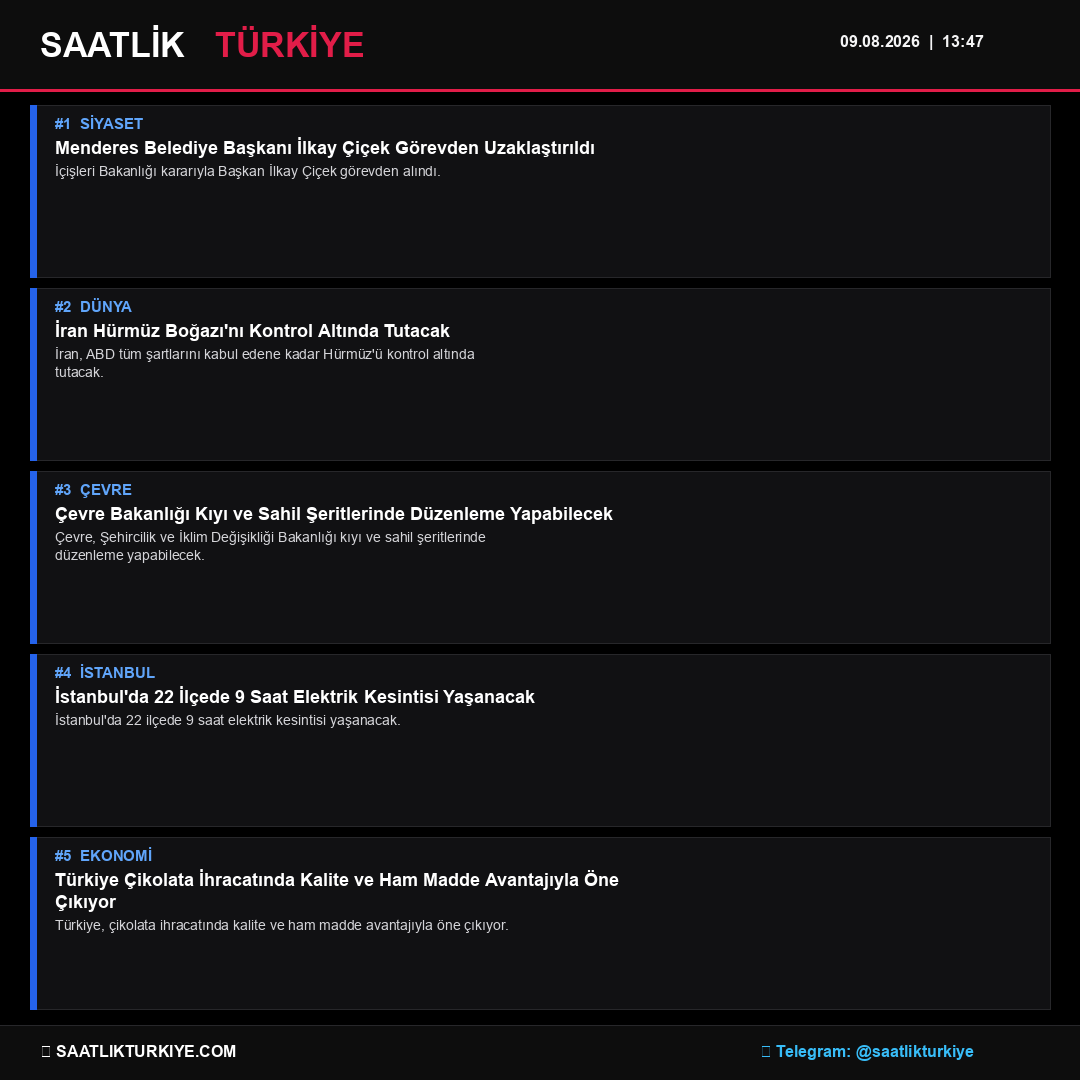
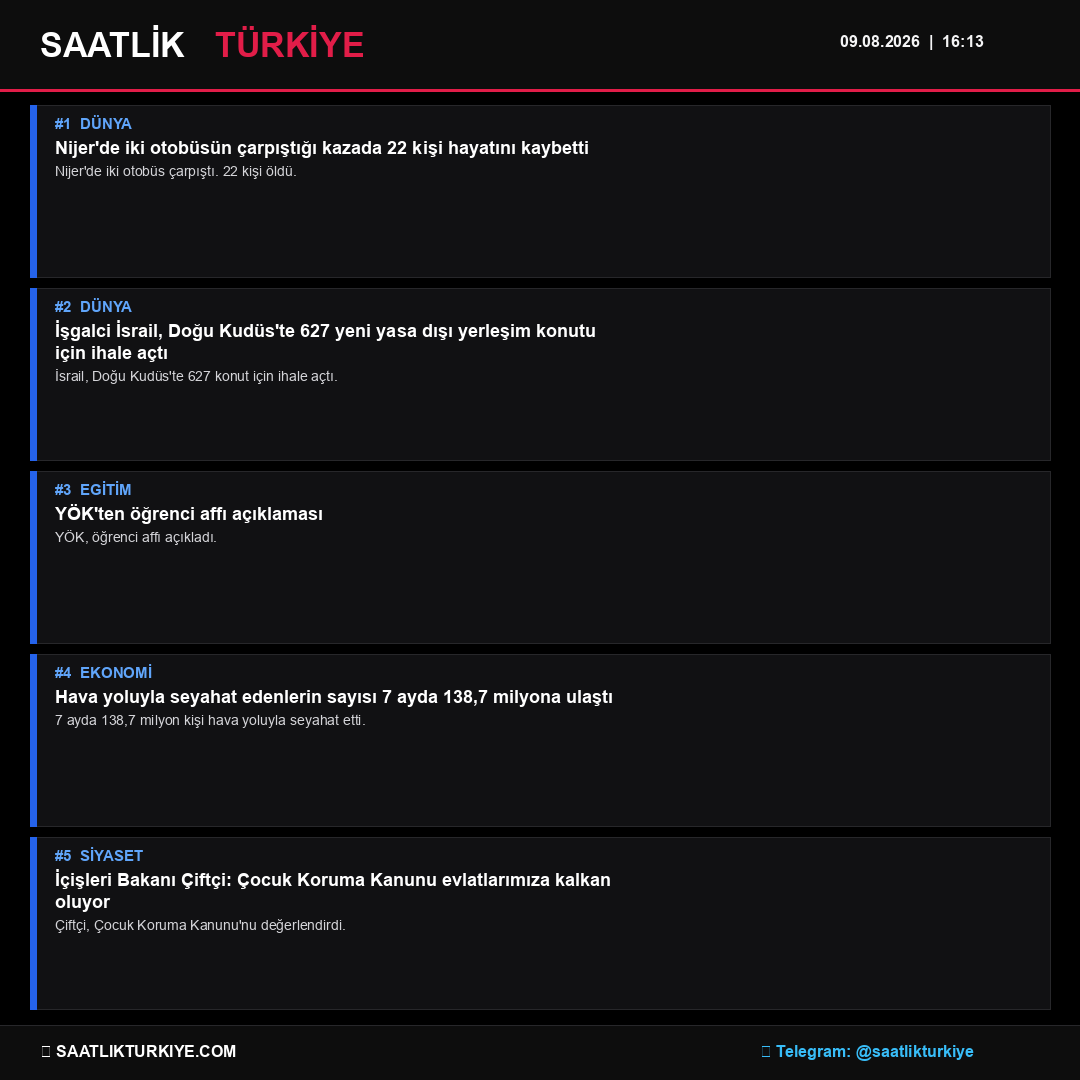
fix website

diff --git a/main.py b/main.py
@@ -38,7 +38,7 @@ RSS_LISTE = [
 ]
 
 HAFIZA_DOSYASI = "paylasilan_haberler.json"
-WEB_JSON_DOSYASI = "news.json"
+WEB_JSON_DOSYASI = "public/news.json"
 TG_OUTPUT_IMAGE = "kusursuz_gundem_telegram.png"
 IG_OUTPUT_IMAGE = "kusursuz_gundem_instagram.png"
 
